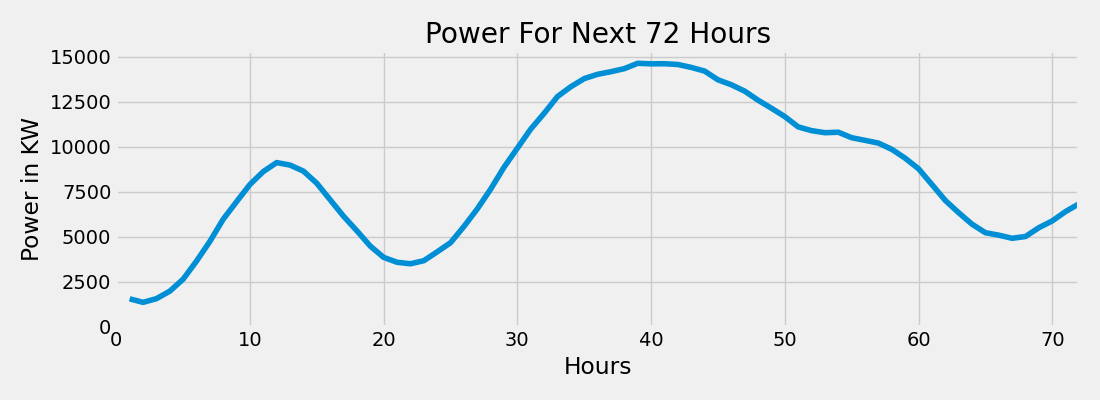
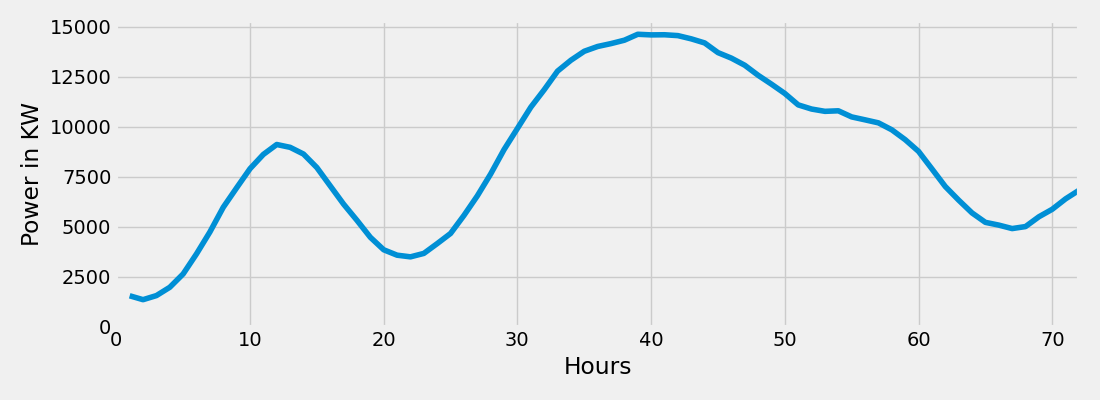
minor fix

diff --git a/templates/aboutus.html b/templates/aboutus.html
@@ -73,8 +73,15 @@
               </div>
             </div>
             <br>
-            <h2>OUR SOLUTION</h2>
-            <p>Our solution includes implementing a time series model derived from deep learning with the application of LSTM to acquire accurate predictions. The input for the model would include weather features such as wind magnitude, and wind direction.
+            <div class="container">
+              <div class="row">
+                <div class="col-sm">
+                  <h2>OUR SOLUTION</h2>
+                </div>
+                <div class="col-sm" align = right>
+                  <a href="https://smartinternz.com/ibm-hack-challenge-2020"  class="badge badge-dark">IBM Hack Challenge 2020</a>
+                </div>
+              </div>
       
               We have implemented a web-based application that will predict the power output of the wind turbine, given the current weather conditions for the next 72 hours. The app provides a graphical plot of the power requirement versus the power currently generated and also features a dashboard which provides visualization of past data.</p>
             <div class="accordion" id="accordionExample">

diff --git a/templates/about.html b/templates/about.html
@@ -50,7 +50,17 @@
         </div>
       </div>
       <br>
-      <h2>OUR SOLUTION</h2>
+      <div class="container">
+        <div class="row">
+          <div class="col-sm">
+            <h2>OUR SOLUTION</h2>
+          </div>
+          <div class="col-sm" align = right>
+            <a href="https://smartinternz.com/ibm-hack-challenge-2020"  class="badge badge-dark">IBM Hack Challenge 2020</a>
+          </div>
+        </div>
+      
+      
       <p>Our solution includes implementing a time series model derived from deep learning with the application of LSTM to acquire accurate predictions. The input for the model would include weather features such as wind magnitude, and wind direction.
 
         We have implemented a web-based application that will predict the power output of the wind turbine, given the current weather conditions for the next 72 hours. The app provides a graphical plot of the power requirement versus the power currently generated and also features a dashboard which provides visualization of past data.</p>

diff --git a/templates/login.html b/templates/login.html
@@ -33,8 +33,9 @@
           <div class="carousel-item active">
               <img src="https://raw.githubusercontent.com/Harsh1347/Flask/master/images/windfarm.jpg" class="d-block w-100" alt="...">
               <div class="card-img-overlay text-white">
-                <div class="container" style="padding-top: 10%;">
-                    <h1><b>Wind power forecasting - combining fieldwork,advanced simulation,and statistical analysis to help wind farm and electric power grid operators...</b></h1>
+                <h1 style="text-align: center;"><b>Wind Power Forecasting</b></h1>
+                <div class="container" style="padding-top: 4%;">
+              
                     <br>
                     <h2><b>L O G I N</b></h2>
                     

diff --git a/templates/index.html b/templates/index.html
@@ -30,20 +30,22 @@
     </div>
   </div>
 
-<br>
+
 <div class="jumbotron jumbotron-fluid ">
     <div class="container">
     <div class="row">
     <div class="col-sm">
     <h2 style="text-align: center;">Power Output for next 72 Hours</h2>
     <img src="{{url_for('static',filename ='images/chart2.png')}}" alt = "chart" width="95%" height="375px"></img>
-    <h4>Average Power Output Rate is <b>{{ avg }} kW/Hr</b></h4>
+    <br>
+    <br>
+    <h4>Average Power Output Rate is <b>{{ avg }} kW/Hr</b></h4><br><br>
     <h4>Totat Expected Power for next 3 Days is  <b>{{ t_power }} kW</b></h4>
 </div>
 </div>
 </div>
 <div class ="container ">
-<hr>
+<br><hr><br>
 </div>
 <div class="container-sm ">
     <h3>Find the percentage of demand fulfilled</h3>

diff --git a/templates/stats.html b/templates/stats.html
@@ -11,6 +11,7 @@
 <div class="container">
     <div class = "row" >
         <div class="col-md">
+          <h2 style="text-align: center;">Power Output for next 72 Hours</h2>
             <img src="{{ url_for('static',filename = 'images/chart2.png')}}" >
         </div>
     </div>

diff --git a/static/css/main.css b/static/css/main.css
@@ -1,0 +1,5 @@
+body{
+    margin: 10;
+    font-family: 'Lucida Sans', 'Lucida Sans Regular', 'Lucida Grande', 'Lucida Sans Unicode', Geneva, Verdana, sans-serif;
+    vertical-align: middle;
+}

diff --git a/app.py b/app.py
@@ -52,7 +52,7 @@ def real_plot():
 def update_data():
   one_day = 86400
 
-  API_KEY = environ.get("WEATHER_API_KEY")#"dac73cd4aa6d251af51224cd3e8983c9"
+  API_KEY = environ.get("WEATHER_API_KEY")
   CITY = "Istanbul"
   date_time = []
   wind_speed = []
@@ -134,7 +134,7 @@ plt.xlabel("Hours")
 plt.ylabel("Power in KW")
 plt.ylim(0)
 plt.xlim((0,72))
-plt.title("Power For Next 72 Hours")
+#plt.title("Power For Next 72 Hours")
 plt.tight_layout()
 plt.savefig('static/images/chart2.png')
 
@@ -200,38 +200,29 @@ def predict():
     if request.method == "GET":
         return redirect(url_for("index"))
     
-    if request.form.values().strip() == "":
-      filen = "Please Enter a Valid Number"
-    
+    ex = [int(x) for x in request.form.values()]
+    pie_data = list()
+    if ex[0]-round(total_power) < 0 :
+        pie_data = [0,round(total_power)]
     else:
-    
-      ex = [int(x) for x in request.form.values()]
-
-      pie_data = list()
-
-      if ex[0]-round(total_power) < 0 :
-          pie_data = [0,round(total_power)]
-      else:
-          v = ex[0]-round(total_power)
-          pie_data = [v,round(total_power)]
-
-      pie_label = ["Remaining","Demand Fulfilled"]
-      data['pred'] = 1
-
-      explode = [0,0.1]
-      colors = ['#fc4f30','#56bd6e']
-      plt.clf()
-      plt.pie(pie_data,labels=pie_label,explode=explode,
-          shadow=True,colors=colors,
-          wedgeprops={'edgecolor':'black'},
-          autopct=make_autopct(pie_data)
-          )
-      plt.title(f"Demand Supply Ratio \n Total Demand : {ex[0]}")
-      plt.tight_layout()
-      plt.xlabel("")
-      plt.ylabel("")
-      plt.savefig("static/images/pieplot.png")
-      filen = "static/images/pieplot.png"
+        v = ex[0]-round(total_power)
+        pie_data = [v,round(total_power)]
+    pie_label = ["Remaining","Demand Fulfilled"]
+    data['pred'] = 1
+    explode = [0,0.1]
+    colors = ['#fc4f30','#56bd6e']
+    plt.clf()
+    plt.pie(pie_data,labels=pie_label,explode=explode,
+        shadow=True,colors=colors,
+        wedgeprops={'edgecolor':'black'},
+        autopct=make_autopct(pie_data)
+        )
+    plt.title(f"Demand Supply Ratio \n Total Demand : {ex[0]}")
+    plt.tight_layout()
+    plt.xlabel("")
+    plt.ylabel("")
+    plt.savefig("static/images/pieplot.png")
+    filen = "static/images/pieplot.png"
     
     
     #time.sleep(1)
